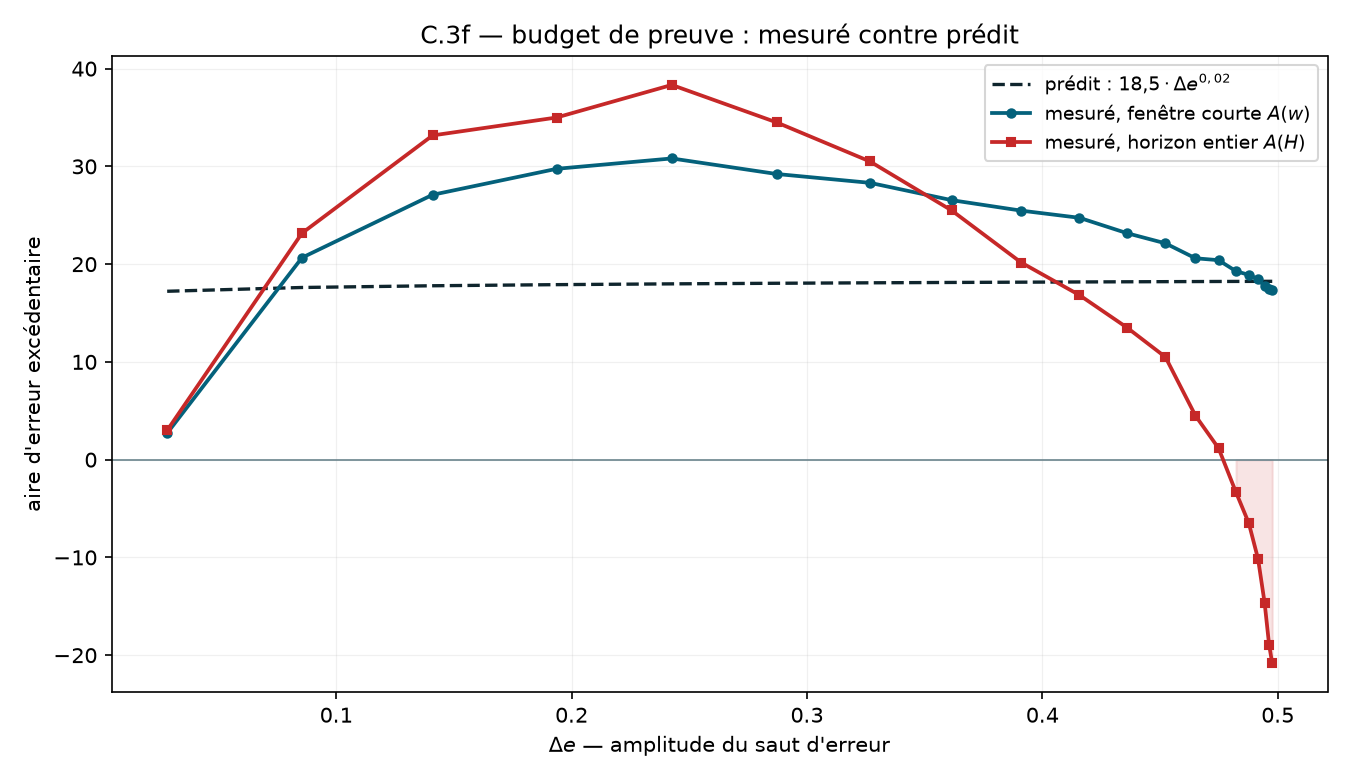
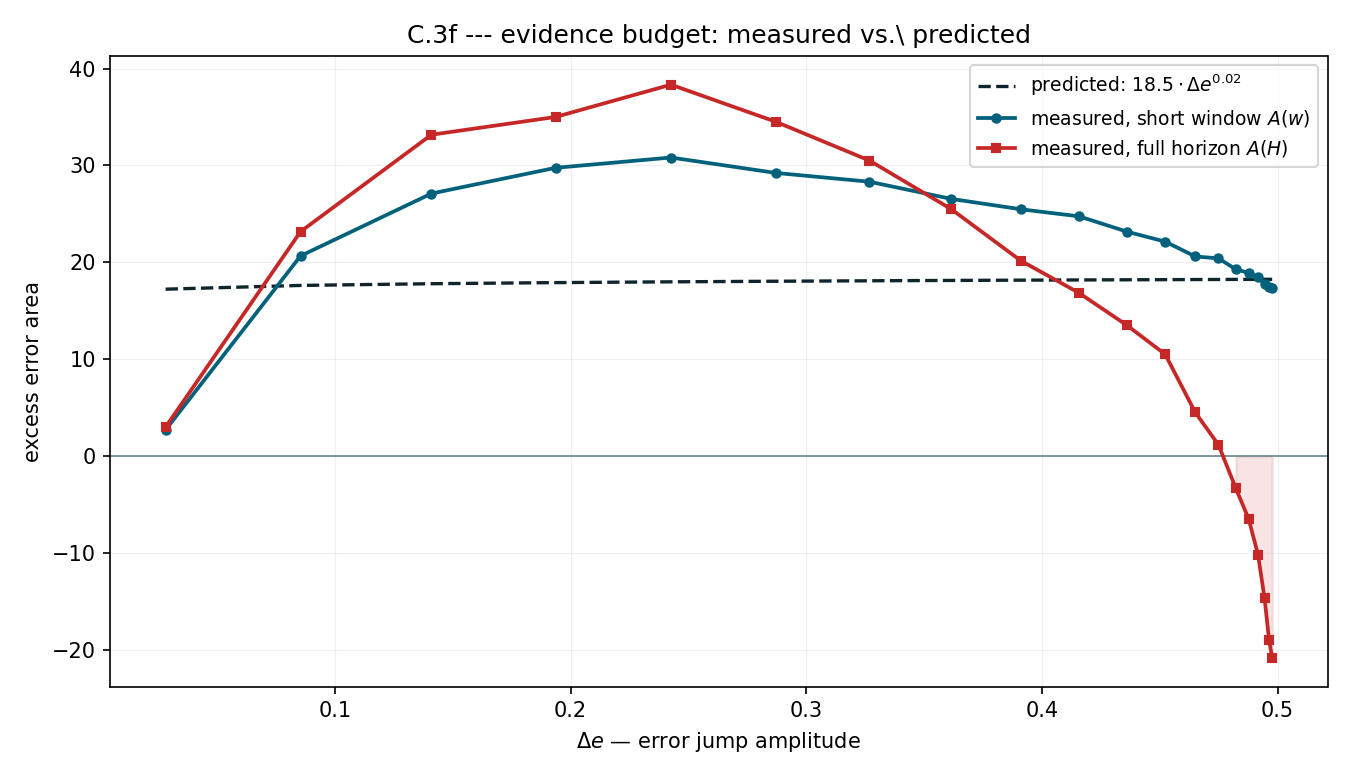
Translate Fig_QC_ecarts/budget to English, fix stale caption in Q C.1
Deliverables must be entirely in English, figures included -- title, axis
labels, legend, and annotation text in figure_ecarts/figure_budget
(analyse_QCD.py) were still in French. Regenerated both PNGs. Also fixed
Q C.1's figure caption, which still described the old dashed-line
encoding after the marker style was changed to a hollow circle.

diff --git a/04_experimentations/resultats_R2/scripts/analyse_QCD.py b/04_experimentations/resultats_R2/scripts/analyse_QCD.py
@@ -488,12 +488,12 @@ def figure_ecarts(df, tag):
         if heavy.any():
             ax.plot(med.index[heavy], med[heavy], 'o', color=c, ms=9,
                     markerfacecolor='none', markeredgewidth=1.8, alpha=0.9)
-    ax.set_xlabel(r"$\Delta e$ — amplitude du saut d'erreur")
-    ax.set_ylabel(r"$\tau_{swap}(q) - \tau_{ARF}$  (pas)")
-    ax.set_title(r"C.1b — de combien $\tau_{ARF}$ devance les quotas plus exigeants")
-    ax.legend(fontsize=9, title="fraction d'arbres renouvelés", title_fontsize=8)
+    ax.set_xlabel(r"$\Delta e$ — error jump amplitude")
+    ax.set_ylabel(r"$\tau_{swap}(q) - \tau_{ARF}$  (steps)")
+    ax.set_title(r"C.1b --- how far ahead of stricter quotas $\tau_{ARF}$ runs")
+    ax.legend(fontsize=9, title="fraction of trees renewed", title_fontsize=8)
     ax.grid(alpha=0.18, lw=0.6)
-    ax.text(0.98, 0.95, "cercle creux : >50 % des runs censurés à cette amplitude",
+    ax.text(0.98, 0.95, "hollow circle: >50% of runs censored at this amplitude",
             transform=ax.transAxes, ha='right', va='top', fontsize=7.5, color='#6A848D')
     fig.tight_layout()
     out = FIGURES_DIR / f"Fig_QC_ecarts_{tag}.png"
@@ -508,17 +508,17 @@ def figure_budget(budget, tag):
     de = budget['delta_e'].to_numpy()
     ax.axhline(0, color='#6A848D', lw=0.8)
     ax.plot(de, budget['A_predit_brut'], '--', color='#0F252D', lw=1.6,
-            label=r"prédit : $18{,}5 \cdot \Delta e^{0,02}$")
+            label=r"predicted: $18.5 \cdot \Delta e^{0.02}$")
     ax.plot(de, budget['A_w_mesure_median'], 'o-', color='#04617B', lw=1.8, ms=4,
-            label=r"mesuré, fenêtre courte $A(w)$")
+            label=r"measured, short window $A(w)$")
     ax.plot(de, budget['A_H_mesure_median'], 's-', color='#C62828', lw=1.8, ms=4,
-            label=r"mesuré, horizon entier $A(H)$")
+            label=r"measured, full horizon $A(H)$")
     ax.fill_between(de, budget['A_H_mesure_median'], 0,
                     where=budget['A_H_mesure_median'] < 0,
                     color='#C62828', alpha=0.12)
-    ax.set_xlabel(r"$\Delta e$ — amplitude du saut d'erreur")
-    ax.set_ylabel("aire d'erreur excédentaire")
-    ax.set_title(r"C.3f — budget de preuve : mesuré contre prédit")
+    ax.set_xlabel(r"$\Delta e$ — error jump amplitude")
+    ax.set_ylabel("excess error area")
+    ax.set_title(r"C.3f --- evidence budget: measured vs.\ predicted")
     ax.legend(fontsize=9)
     ax.grid(alpha=0.18, lw=0.6)
     fig.tight_layout()

diff --git a/04_experimentations/redaction_QC1_hierarchie.tex b/04_experimentations/redaction_QC1_hierarchie.tex
@@ -81,8 +81,8 @@ construction, since $\tau_{\mathrm{ARF}} = \tau_{\mathrm{swap}}(0.10)$.
   \centering
   \includegraphics[width=0.85\textwidth]{resultats_R2/resultats/figures/Fig_QC_ecarts_full.png}
   \caption{Median gap $\tau_{\mathrm{swap}}(q) - \tau_{\mathrm{ARF}}$ as a function of
-  $\Delta e$, full campaign (2\,000 runs). Dashed line~: amplitude beyond which more
-  than 50\% of runs are censored for that quota.}
+  $\Delta e$, full campaign (2\,000 runs). Hollow circle marker~: amplitude where more
+  than 50\% of runs are censored for that quota (median not reliable there).}
   \label{fig:ecarts}
 \end{figure}
 
